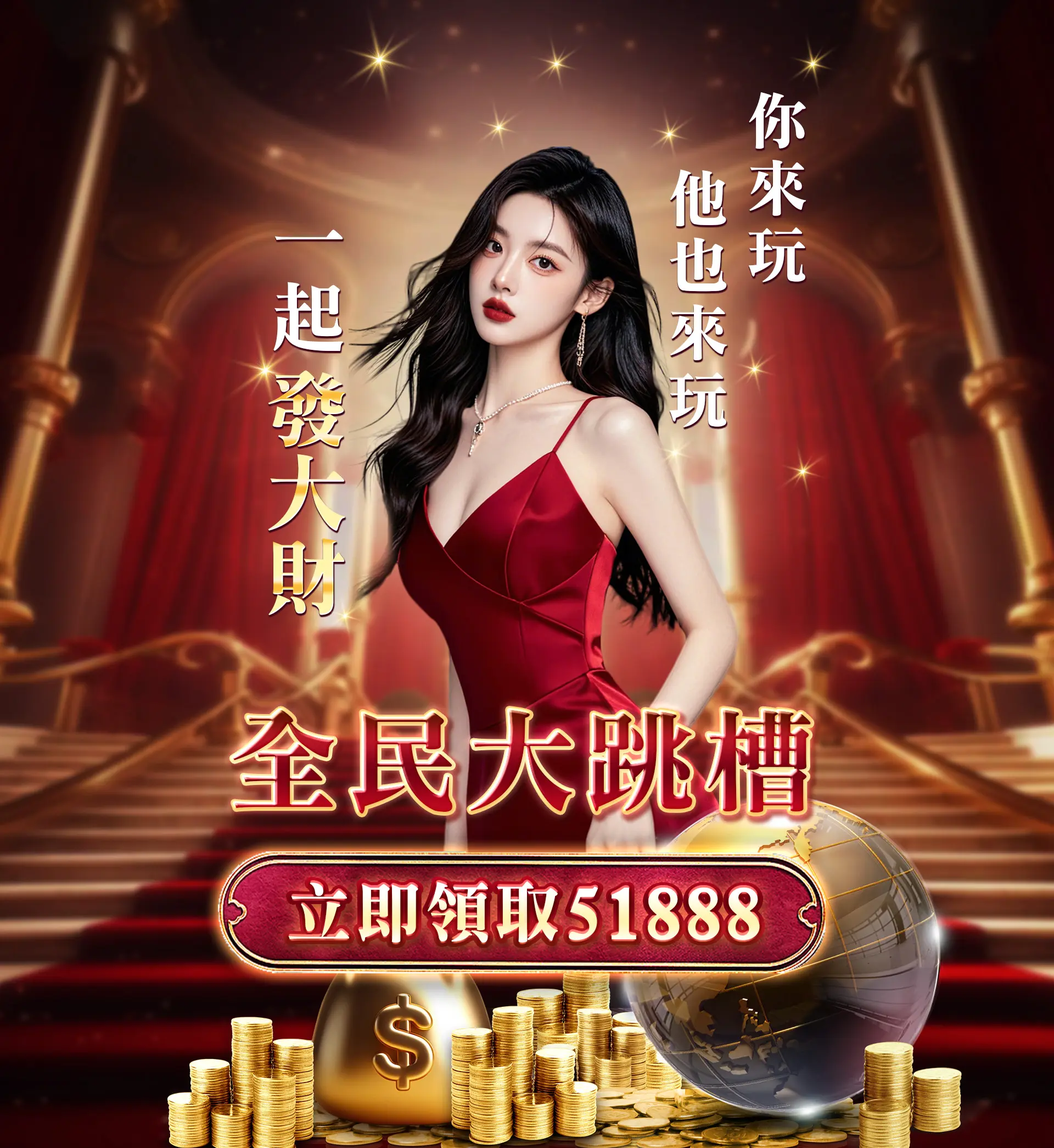
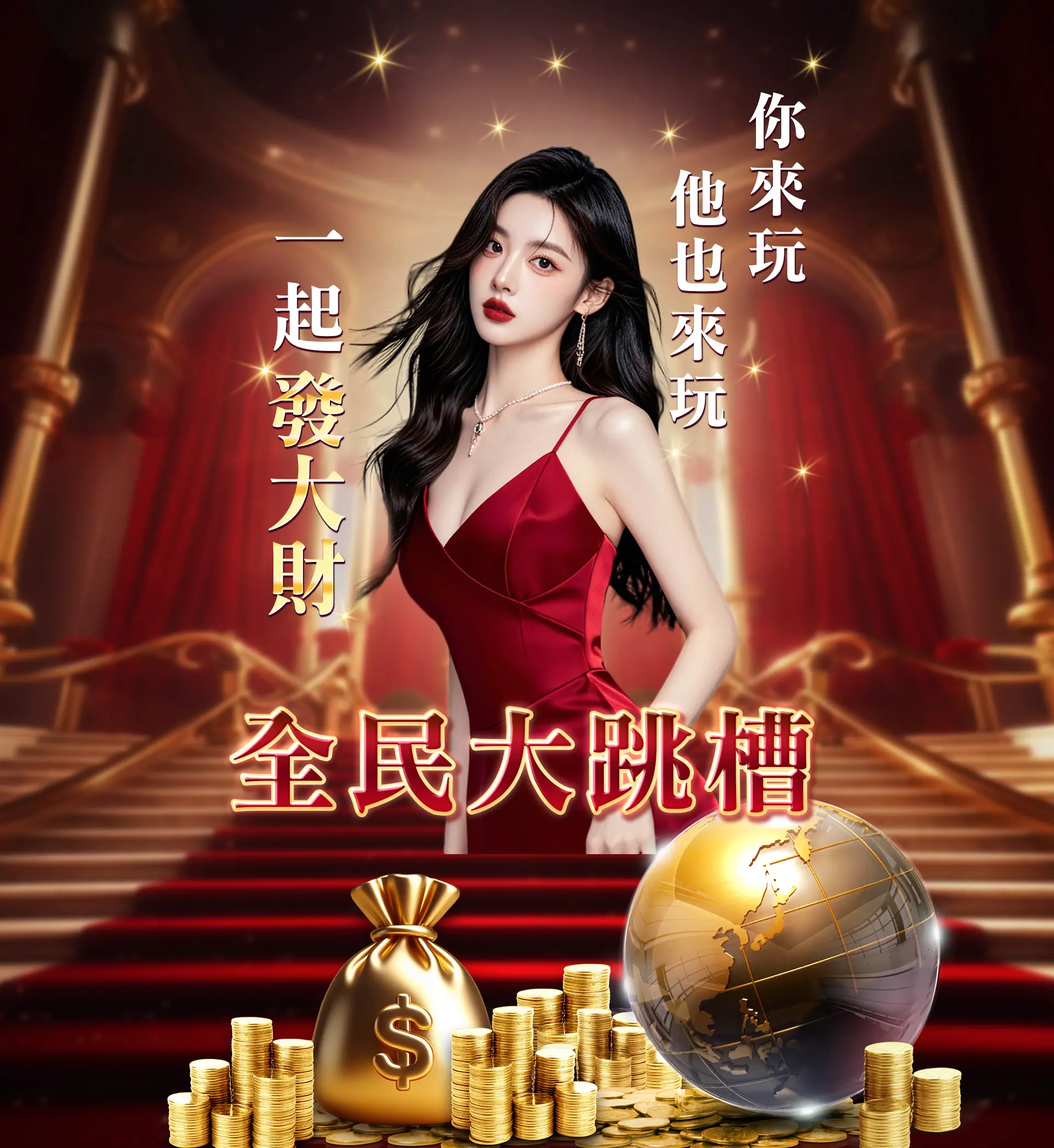
feat: 替换点击区域为按钮图片并优化响应式设计
将全屏点击区域替换为具体的按钮图片，提升用户体验
优化移动端和横屏模式下的按钮位置和大小

Changed region(s): [[0.1875, 0.7153, 0.8125, 0.8708]]

diff --git a/index.html b/index.html
@@ -1,46 +1,50 @@
 <!DOCTYPE html>
 <html lang="zh-TW">
+
 <head>
     <meta charset="UTF-8">
     <meta name="viewport" content="width=device-width, initial-scale=1.0, user-scalable=no">
     <title>樂樂 跳槽送51888</title>
-    
+
     <!-- Meta Pixel Code -->
     <script>
-    !function(f,b,e,v,n,t,s)
-    {if(f.fbq)return;n=f.fbq=function(){n.callMethod?
-    n.callMethod.apply(n,arguments):n.queue.push(arguments)};
-    if(!f._fbq)f._fbq=n;n.push=n;n.loaded=!0;n.version='2.0';
-    n.queue=[];t=b.createElement(e);t.async=!0;
-    t.src=v;s=b.getElementsByTagName(e)[0];
-    s.parentNode.insertBefore(t,s)}(window, document,'script',
-    'https://connect.facebook.net/en_US/fbevents.js');
-    fbq('init', '1478943516681158');
-    fbq('track', 'PageView');
+        !function (f, b, e, v, n, t, s) {
+            if (f.fbq) return; n = f.fbq = function () {
+                n.callMethod ?
+                n.callMethod.apply(n, arguments) : n.queue.push(arguments)
+            };
+            if (!f._fbq) f._fbq = n; n.push = n; n.loaded = !0; n.version = '2.0';
+            n.queue = []; t = b.createElement(e); t.async = !0;
+            t.src = v; s = b.getElementsByTagName(e)[0];
+            s.parentNode.insertBefore(t, s)
+        }(window, document, 'script',
+            'https://connect.facebook.net/en_US/fbevents.js');
+        fbq('init', '1478943516681158');
+        fbq('track', 'PageView');
     </script>
     <noscript><img height="1" width="1" style="display:none"
-    src="https://www.facebook.com/tr?id=1478943516681158&ev=PageView&noscript=1"
-    /></noscript>
+            src="https://www.facebook.com/tr?id=1478943516681158&ev=PageView&noscript=1" /></noscript>
     <!-- End Meta Pixel Code -->
-    
+
     <style>
         * {
             margin: 0;
             padding: 0;
             box-sizing: border-box;
         }
-        
-        html, body {
+
+        html,
+        body {
             height: 100%;
         }
-        
+
         .container {
             position: relative;
             width: 100vw;
             height: 100vh;
             overflow: hidden;
         }
-        
+
         .container::before {
             content: '';
             position: absolute;
@@ -56,7 +60,7 @@
             transform: scale(1.1);
             z-index: 1;
         }
-        
+
         .fullscreen-img {
             position: absolute;
             top: 50%;
@@ -68,35 +72,54 @@
             transform: translate(-50%, -50%);
             z-index: 2;
         }
-        
-        .clickable-area {
+
+        .btn-img {
             position: absolute;
-            bottom: 0;
-            left: 0;
-            width: 100%;
-            height: 50%;
+            bottom: 15%;
+            left: 50%;
+            transform: translateX(-50%);
+            width: auto;
+            height: auto;
+            max-width: 500px;
+            max-height: 30%;
+            object-fit: contain;
             cursor: pointer;
             z-index: 10;
         }
-        
+
         /* 響應式設計 */
         @media screen and (max-width: 768px) {
             .fullscreen-img {
                 object-position: center center;
             }
+
+            .btn-img {
+                bottom: calc(54vh - 50vw);
+                max-width: 60%;
+                max-height: 25%;
+            }
         }
-        
+
         @media screen and (orientation: landscape) and (max-height: 500px) {
             .fullscreen-img {
                 object-position: center;
             }
+
+            .btn-img {
+                bottom: 5%;
+                max-width: 70%;
+                max-height: 20%;
+            }
         }
     </style>
 </head>
+
 <body>
     <div class="container">
         <img src="image.webp" alt="全民大跳槽 51888" class="fullscreen-img">
-        <div class="clickable-area" onclick="fbq('track', 'Lead'); window.open('https://lin.ee/zZw3NOb', '_blank')"></div>
+        <img src="btn.webp" alt="立即領取51888" class="btn-img"
+            onclick="fbq('track', 'Lead'); window.open('https://lin.ee/zZw3NOb', '_blank')">
     </div>
 </body>
+
 </html>
